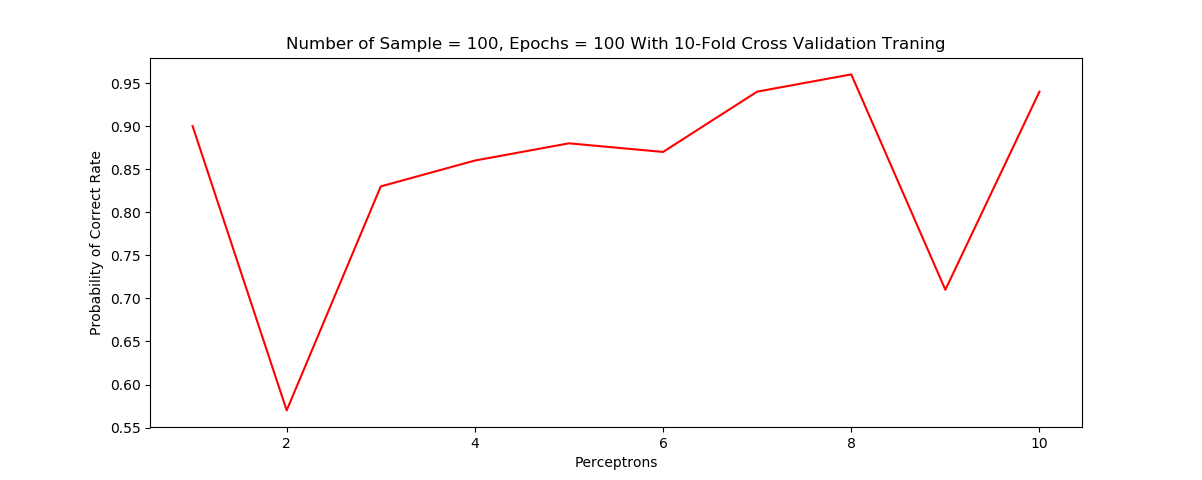
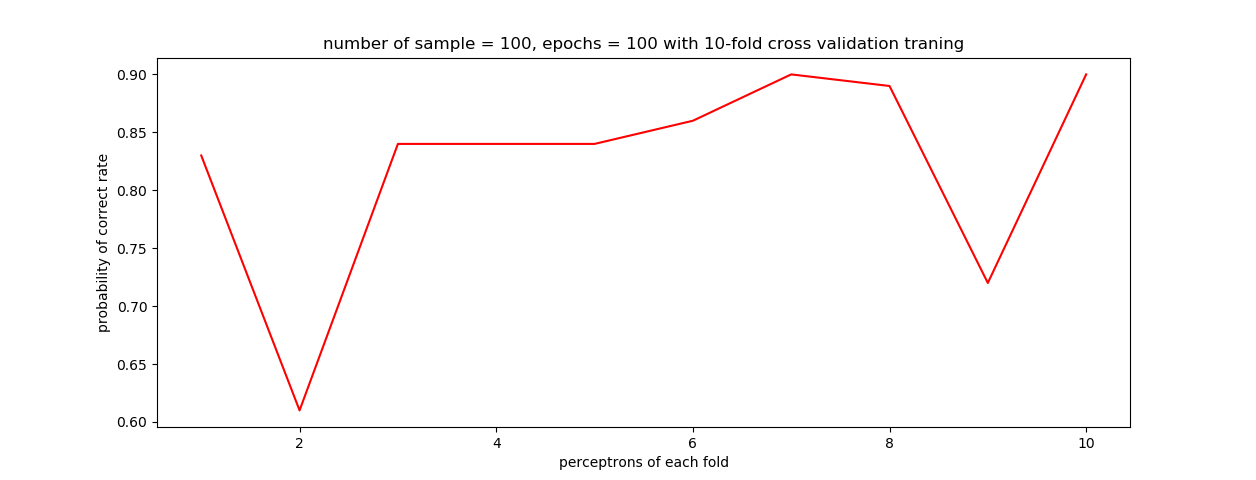
train_10000 Processing

diff --git a/Exam 2/Exam2Question1/Exam2Question1.py b/Exam 2/Exam2Question1/Exam2Question1.py
@@ -21,7 +21,7 @@ from sklearn.metrics import confusion_matrix
 print('Training Samples with Neural Network')
 start = timeit.default_timer()
 
-TEST = 100
+TEST = 10000
 
 if TEST == 100:
     #print('100 training case')
@@ -55,7 +55,7 @@ if TEST == 100:
             tmp = 0
             epsilon = 0.001
             while not converged:
-                model.fit(x_train, y_train, batch_size=None, epochs=50, verbose=0)
+                model.fit(x_train, y_train, batch_size=None, epochs=70, verbose=0)
                 score = model.evaluate(x_test, y_test, verbose=0)
                 converged = np.abs(score[1]-tmp)<epsilon
                 tmp = score[1]
@@ -69,11 +69,11 @@ if TEST == 100:
     model_order = np.where(model_means == np.max(model_means))[0][0] + 1
     #model_order
 
-    #plt.plot(np.arange(1,11), model_means, 'r')
-    #plt.title('number of sample = 100, epochs = 100 with 10-fold cross validation traning')
-    #plt.xlabel('perceptrons of each fold')
-    #plt.ylabel('probability of correct rate')
-    #plt.show()
+    plt.plot(np.arange(1,11), model_means, 'r')
+    plt.title('number of sample = 100, epochs = 70 with 10-fold cross validation traning')
+    plt.xlabel('perceptrons of each fold')
+    plt.ylabel('probability of correct rate')
+    plt.show()
 
     time.sleep(5)
 
@@ -96,7 +96,7 @@ if TEST == 100:
     tmp = 0
     epsilon = 0.001
     while not converged:
-        model.fit(x_data, y_data, batch_size=None, epochs=50, verbose=0)
+        model.fit(x_data, y_data, batch_size=None, epochs=70, verbose=0)
         score = model.evaluate(x_test, y_test,verbose=0)
         converged = np.abs(score[1]-tmp)<epsilon
         tmp = score[1]
@@ -156,7 +156,7 @@ elif TEST == 1000:
     #model_order
 
     plt.plot(np.arange(1,11), model_means, 'r')
-    plt.title('Number of Sample = 1000, Epochs = 100 With 10-Fold Cross Validation Traning')
+    plt.title('Number of Sample = 1000, Epochs = 50 With 10-Fold Cross Validation Traning')
     plt.xlabel('Perceptrons of each Fold')
     plt.ylabel('Probability of Correct Rate')
     plt.show()
@@ -192,6 +192,92 @@ elif TEST == 1000:
     con_matrix = confusion_matrix(testLabel_1000, prediction, labels=[0, 1, 2, 3])
     print(score)
     print("Accuracy Rate on Test Data 1000: " + str(score[1]))
+    print("The confusion matrix is as below: ")
+    print(con_matrix)
+
+elif TEST == 10000:
+  
+    trainDataLD_10000 = sio.loadmat('trainData_10000.mat')
+    trainData_10000 = trainDataLD_10000['trainData_10000']
+    trainLabel_10000 = trainDataLD_10000['trainLabel_10000']
+    
+    x_data = trainData_10000.transpose()
+    trainLabel_10000 = trainLabel_10000-1; #indice in matlab  1 is 0 in python
+    trainLabel_10000 = trainLabel_10000[0] #indice in matlab  1 is 0 in python
+    y_data = keras.utils.to_categorical(trainLabel_10000, num_classes=4) 
+    accuracy = np.zeros((10,10))
+    #print(y_data[10])
+
+    tenf = KFold(n_splits=10)
+    j = 0
+
+    print("Training for 10000 samples...")
+    for train_indice, test_indice in tenf.split(x_data):
+        #print("TRAIN:", train_index, "TEST:", test_index)
+        x_train, x_test = x_data[train_indice], x_data[test_indice]
+        y_train, y_test = y_data[train_indice], y_data[test_indice]
+        for i in range(1,11):
+            model = Sequential()
+            
+            model.add(Dense(i, activation='tanh', input_dim=3))
+            model.add(Dense(4, activation='softplus'))
+            sgd = SGD(lr=0.01, decay=1e-5, momentum=0.9, nesterov=True)
+            model.compile(loss='categorical_crossentropy', optimizer = sgd, metrics = ['accuracy'])
+            converged = 0
+            tmp = 0
+            epsilon = 0.001
+            while not converged:
+                model.fit(x_train, y_train, batch_size=None, epochs=30, verbose=0)
+                score = model.evaluate(x_test, y_test, verbose=0)
+                converged = np.abs(score[1]-tmp)<epsilon
+                tmp = score[1]
+            accuracy[j,i-1] = score[1]
+        j+=1
+
+    print("Accuracy Rate on Train Data 10000: "+ str(score[1]))
+    #print(accuracy)
+
+    model_means = np.mean(accuracy,axis=1)
+    model_order = np.where(model_means == np.max(model_means))[0][0] + 1
+    #model_order
+
+    plt.plot(np.arange(1,11), model_means, 'r')
+    plt.title('Number of Sample = 10000, Epochs = 30 With 10-Fold Cross Validation Traning')
+    plt.xlabel('Perceptrons of each Fold')
+    plt.ylabel('Probability of Correct Rate')
+    plt.show()
+
+    time.sleep(5)
+
+    testDataLD_10000 = sio.loadmat('testData_10000.mat')
+    testData_10000 = testDataLD_10000['testData_10000']
+    testLabel_10000 = testDataLD_10000['testLabel_10000']
+   
+    
+    x_test = testData_10000.transpose()
+    testLabel_10000 = testLabel_10000-1; #indice in matlab  1 is 0 in python
+    testLabel_10000 = testLabel_10000[0] #indice in matlab  1 is 0 in python
+    y_test = keras.utils.to_categorical(testLabel_10000, num_classes=4) 
+    model = Sequential()
+    
+    model.add(Dense(model_order, activation='tanh', input_dim=3))
+    model.add(Dense(4, activation='softplus'))
+    sgd = SGD(lr=0.01, decay=1e-5, momentum=0.9, nesterov=True)
+    model.compile(loss='categorical_crossentropy', optimizer=sgd, metrics=['accuracy'])
+    converged = 0
+    tmp = 0
+    epsilon = 0.001
+    while not converged:
+        model.fit(x_data, y_data, batch_size=None, epochs=30, verbose=0)
+        score = model.evaluate(x_test, y_test,verbose=0)
+        converged = np.abs(score[1]-tmp)<epsilon
+        tmp = score[1]
+
+    prediction_method = model.predict(x_test)
+    prediction = np.argmax(prediction_method,axis=1)
+    con_matrix = confusion_matrix(testLabel_10000, prediction, labels=[0, 1, 2, 3])
+    print(score)
+    print("Accuracy Rate on Test Data 10000: " + str(score[1]))
     print("The confusion matrix is as below: ")
     print(con_matrix)
 

diff --git a/Exam 2/Exam2Q2_GenerateData.m b/Exam 2/Exam2Q2_GenerateData.m
@@ -1,0 +1,37 @@
+clear all, close all,
+
+plotData = 1;
+n = 2; Ntrain = 1000; Ntest = 10000; 
+alpha = [0.33,0.34,0.33]; % must add to 1.0
+meanVectors = [-18 0 18;-8 0 8];
+covEvalues = [3.2^2 0;0 0.6^2];
+covEvectors(:,:,1) = [1 -1;1 1]/sqrt(2);
+covEvectors(:,:,2) = [1 0;0 1];
+covEvectors(:,:,3) = [1 -1;1 1]/sqrt(2);
+
+t = rand(1,Ntrain);
+ind1 = find(0 <= t & t <= alpha(1));
+ind2 = find(alpha(1) < t & t <= alpha(1)+alpha(2));
+ind3 = find(alpha(1)+alpha(2) <= t & t <= 1);
+Xtrain = zeros(n,Ntrain);
+Xtrain(:,ind1) = covEvectors(:,:,1)*covEvalues^(1/2)*randn(n,length(ind1))+meanVectors(:,1);
+Xtrain(:,ind2) = covEvectors(:,:,2)*covEvalues^(1/2)*randn(n,length(ind2))+meanVectors(:,2);
+Xtrain(:,ind3) = covEvectors(:,:,3)*covEvalues^(1/2)*randn(n,length(ind3))+meanVectors(:,3);
+
+t = rand(1,Ntest);
+ind1 = find(0 <= t & t <= alpha(1));
+ind2 = find(alpha(1) < t & t <= alpha(1)+alpha(2));
+ind3 = find(alpha(1)+alpha(2) <= t & t <= 1);
+Xtest = zeros(n,Ntrain);
+Xtest(:,ind1) = covEvectors(:,:,1)*covEvalues^(1/2)*randn(n,length(ind1))+meanVectors(:,1);
+Xtest(:,ind2) = covEvectors(:,:,2)*covEvalues^(1/2)*randn(n,length(ind2))+meanVectors(:,2);
+Xtest(:,ind3) = covEvectors(:,:,3)*covEvalues^(1/2)*randn(n,length(ind3))+meanVectors(:,3);
+
+if plotData == 1
+    figure(1), subplot(1,2,1),
+    plot(Xtrain(1,:),Xtrain(2,:),'.')
+    title('Training Data'), axis equal,
+    subplot(1,2,2),
+    plot(Xtest(1,:),Xtest(2,:),'.')
+    title('Testing Data'), axis equal,
+end
